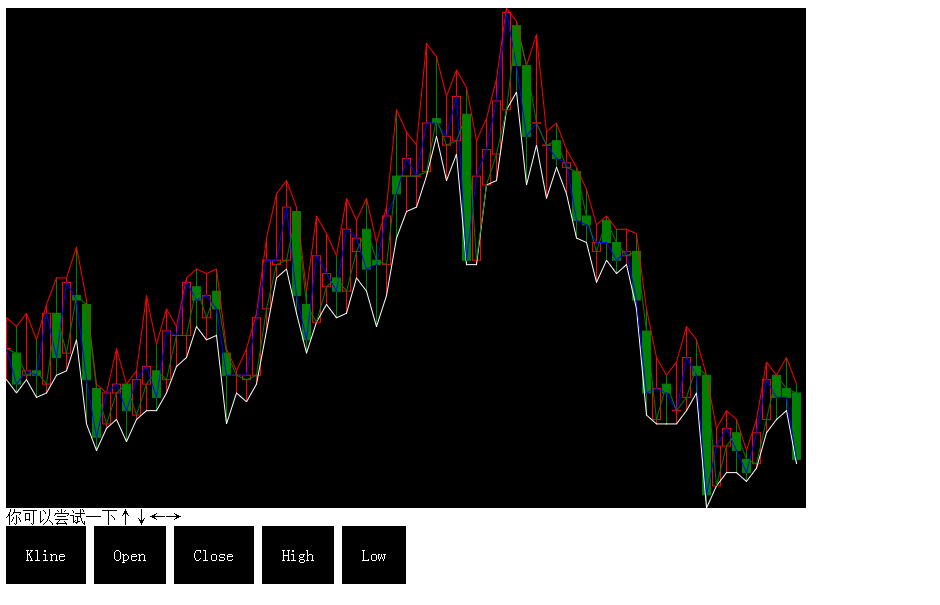
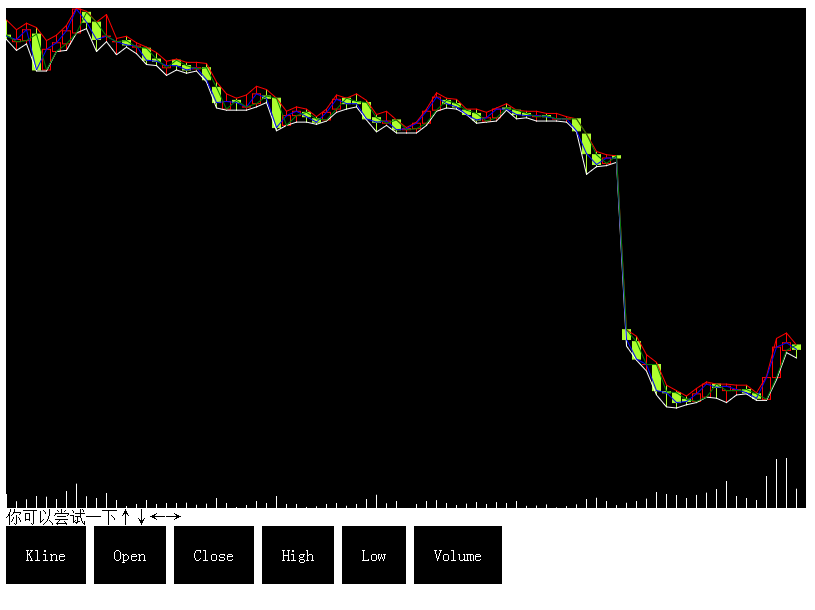
修改图片和readme文件
修改图片和readme文件

Changed region(s): [[0.0, 0.0, 1.0, 0.9818], [0.7362, 0.4463, 0.7669, 0.476]]

diff --git a/README.md b/README.md
@@ -50,3 +50,7 @@
 
 
 ![示例图](./images/demo1.png)
+
+###Update###
+
+>2015年11月2日 增加画竖线
